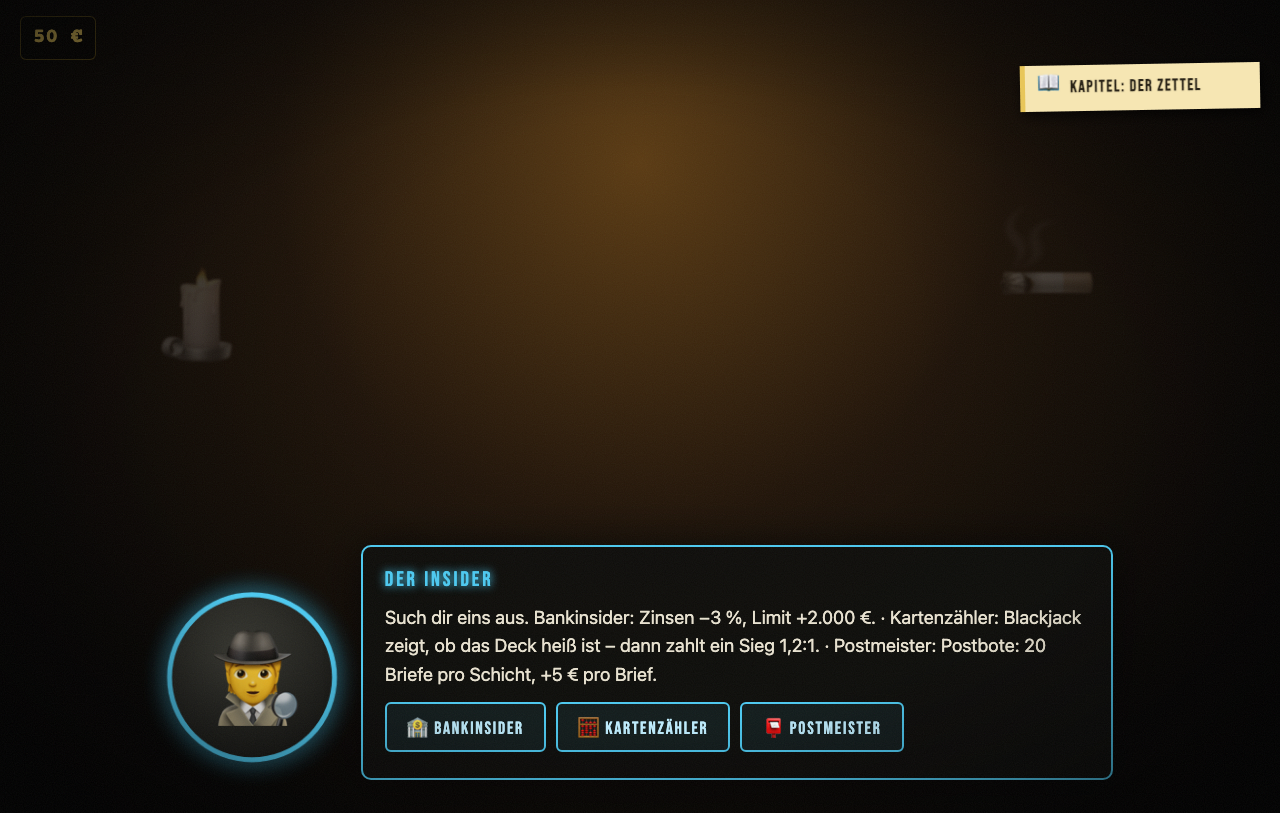
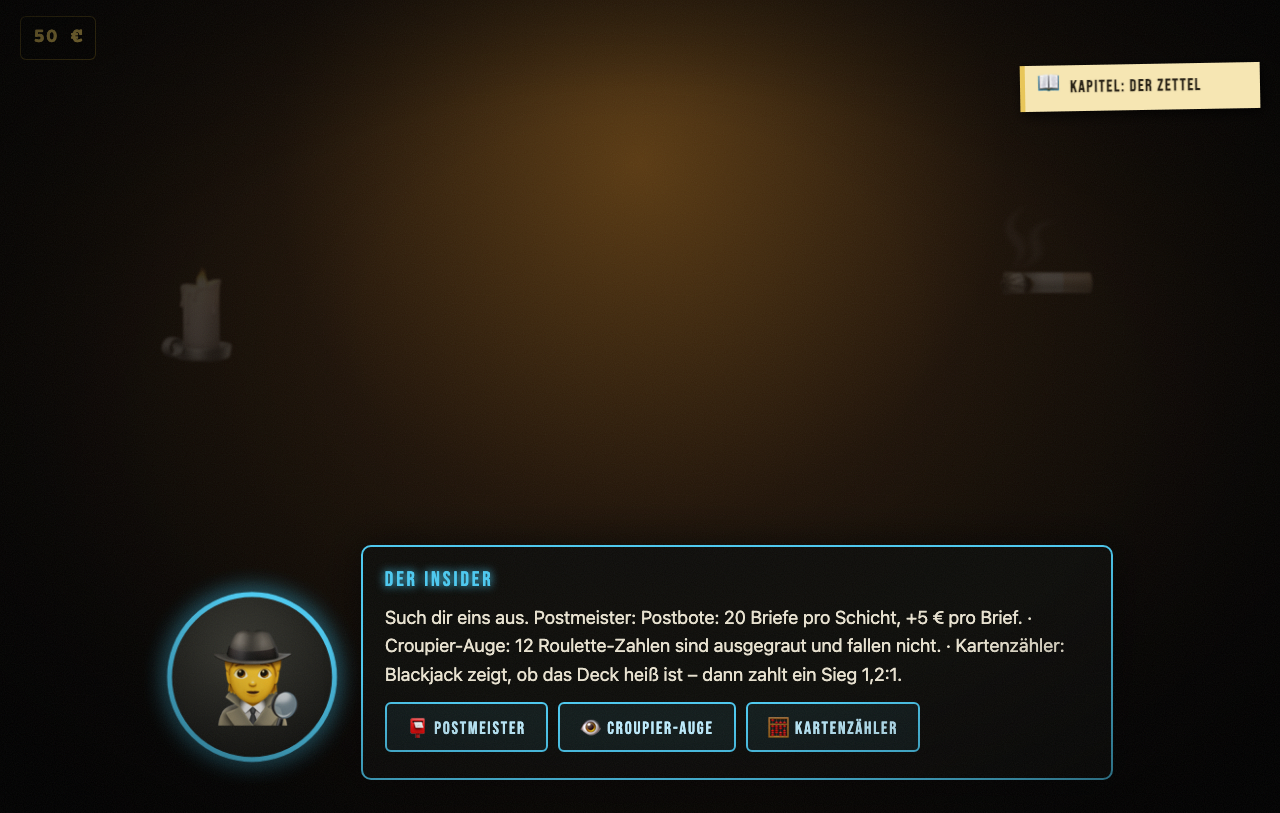
fix(balance): Zockerhände 1,3×, Pferdeflüsterer-Bonus gedeckelt, fairer Zieleinlauf; Insider-Szene vor der Wahl, Roulette-Self-Heal, dynamische Texte

Changed region(s): [[0.2812, 0.738, 0.8438, 0.9225]]

diff --git a/keller37.html b/keller37.html
@@ -426,7 +426,7 @@ body.cs-open .toast { max-width: 300px; }
 }
 /* -- Reduced Motion -- */
 @media (prefers-reduced-motion: reduce) {
-  .neon, .cs-portrait, .balance, .cs-money, .note, .toast, .runner .horse, .spark, .cs-next, .trophy.fresh, div#title, .belt.running, .plate.hit, .plate.broken, .taxi-road.running, .brake-flash.on, .ticket-pop { animation: none !important; }
+  .neon, .cs-portrait, .balance, .cs-money, .note, .toast, .runner .horse, .spark, .cs-next, .trophy.fresh, div#title, .belt.running, .plate.hit, .plate.broken, .taxi-road.running, .brake-flash.on, .ticket-pop, .lv-badge.point { animation: none !important; }
   .strip.spinning { animation: none !important; filter: none; }
   .stage, .stage.leaving, .stage.entering { transition: none; animation: none; }
   #wheelCanvas { transition-duration: .3s; }
@@ -763,7 +763,7 @@ body.mode-story #newgame, body.mode-story #toTitle { display: none; }
         <div class="hand-label">Dealer <span class="hand-val" id="bjDealerVal">–</span> <span class="insider-hint hidden" id="bjDeckHeat"></span></div>
         <div class="cards" id="dealerCards"></div>
       </div>
-      <div class="bj-arc">Black Jack zahlt 1:1 · Dealer zieht bis 17</div>
+      <div class="bj-arc" id="bjArc">Blackjack zahlt 1:1 · Dealer zieht bis 17</div>
       <div class="bj-hand player">
         <div class="cards" id="playerCards"></div>
         <div class="hand-label">Du <span class="hand-val" id="bjPlayerVal">–</span></div>
@@ -999,7 +999,7 @@ const Rules = {
 
   luck(s, mods = Rules.NEUTRAL_MODS) {
     let l = 0;
-    if (s.beerTimer > 0) l += Rules.BEER_LUCK[Math.min(s.beers, 4)] * mods.beerLuckMult;
+    if (s.beerTimer > 0) l += Rules.BEER_LUCK[Math.min(s.beers, Rules.BEER_LUCK.length - 1)] * mods.beerLuckMult;
     if (s.brownieTimer > 0) l += Rules.BROWNIE_LUCK * mods.brownieLuckMult;
     l += Rules.gear(s).luck;
     return l;
@@ -1130,6 +1130,12 @@ const Rules = {
     return step * 1.5 * handicap;
   },
   horseDelta(won, bet, mods = Rules.NEUTRAL_MODS) { return won ? Math.round(bet * mods.horsePayout) : -bet; },
+  /* Zieleinlauf: unter allen Pferden, die das Ziel erreicht haben, gewinnt das mit der größten Position (nicht der niedrigste Index) */
+  raceWinner(pos, goal) {
+    let winner = -1;
+    for (let i = 0; i < pos.length; i++) if (pos[i] >= goal && (winner === -1 || pos[i] > pos[winner])) winner = i;
+    return winner;
+  },
 
   /* ---- Russisches Roulette ---- */
   rrCylinder(rng) {
@@ -1352,12 +1358,12 @@ Object.assign(Rules, {
   INSIDER_CAP: 250,
   HORSE_LAME_STEP: 0.85,
   NEUTRAL_MODS: {
-    beerLuckMult: 1, brownieLuckMult: 1, maxBeers: 3, brownieSpins: 1,
+    beerLuckMult: 1, brownieLuckMult: 1, maxBeers: Rules.MAX_BEERS, brownieSpins: Rules.BROWNIE_SPINS,
     bjNatural: 1, bjPushBonus: 0, bjHotDeck: 1,
     rouletteNumberPayout: 35, rouletteExclude: 0,
     slotPairMult: 1.2, slotHoldEvery: 0,
     horsePayout: 3, horseLoserMarked: false,
-    bankRateAdd: 0, bankLimitAdd: 0, mafiaSpins: 5, mafiaMult: 3, investRateMult: 1,
+    bankRateAdd: 0, bankLimitAdd: 0, mafiaSpins: Rules.MAFIA_SPINS, mafiaMult: 3, investRateMult: 1,
     mugChanceMult: 1, fightAdd: 0, walletMult: 1,
     postTimeAdd: 0, postPayAdd: 0, postLetters: 15,
   },
@@ -1375,8 +1381,8 @@ Object.assign(Rules, {
   SKILLS: [
     { id: 'pokerface', name: 'Pokerface', icon: '🃏', light: 'Blackjack: natürlicher Blackjack zahlt 3:2, Push bringt +10 %', shadow: 'Bier gibt kein Glück', mods: { bjNatural: 1.5, bjPushBonus: 0.1, beerLuckMult: 0 } },
     { id: 'kalterkopf', name: 'Kalter Kopf', icon: '🧊', light: 'Roulette-Zahlen zahlen 36:1', shadow: 'Brownie wirkt nur halb', mods: { rouletteNumberPayout: 36, brownieLuckMult: 0.5 } },
-    { id: 'zockerhaende', name: 'Zockerhände', icon: '🎰', light: 'Slots: Paar zahlt 1,5×', shadow: 'Bank-Zinsen +2 %', mods: { slotPairMult: 1.5, bankRateAdd: 0.02 }, excludes: ['brieftraeger'] },
-    { id: 'pferdefluesterer', name: 'Pferdeflüsterer', icon: '🐎', light: 'Pferde zahlen 3,3:1', shadow: 'Überfälle 50 % häufiger', mods: { horsePayout: 3.3, mugChanceMult: 1.5 } },
+    { id: 'zockerhaende', name: 'Zockerhände', icon: '🎰', light: 'Slots: Paar zahlt 1,3×', shadow: 'Bank-Zinsen +2 %', mods: { slotPairMult: 1.3, bankRateAdd: 0.02 }, excludes: ['brieftraeger'] },
+    { id: 'pferdefluesterer', name: 'Pferdeflüsterer', icon: '🐎', light: 'Pferde zahlen 3,3:1 (bis 250 €)', shadow: 'Überfälle 50 % häufiger', mods: { horsePayout: 3.3, mugChanceMult: 1.5 } },
     { id: 'eisenmagen', name: 'Eisenmagen', icon: '🍺', light: '4 Bier möglich (+25 %), Brownie hält 2 Spins', shadow: 'Postbote: −1 s pro Brief', mods: { maxBeers: 4, brownieSpins: 2, postTimeAdd: -1 } },
     { id: 'verhandler', name: 'Verhandler', icon: '🤝', light: 'Bank-Zinsen −2 %, Vito-Frist 7 Spins', shadow: 'Anlagen zahlen 10 % weniger', mods: { bankRateAdd: -0.02, mafiaSpins: 7, investRateMult: 0.9 } },
     { id: 'strassenkoeter', name: 'Straßenköter', icon: '🐕', light: 'Kampfchance +15 %, Brieftasche ×2', shadow: 'Bank-Limit −1.000 €', mods: { fightAdd: 0.15, walletMult: 2, bankLimitAdd: -1000 } },
@@ -1436,6 +1442,11 @@ Object.assign(Rules, {
     if (typeof value === 'boolean') return value && bet <= Rules.INSIDER_CAP;
     if (!bet || bet <= Rules.INSIDER_CAP) return value;
     return 1 + (value - 1) * Rules.INSIDER_CAP / bet;
+  },
+  /* Wie effectiveInsider, aber für Boni, deren Neutralwert nicht 1 ist (z. B. horsePayout, Neutral 3):
+     wirkt voll bis INSIDER_CAP, darüber verliert nur der Bonus-Anteil über dem Neutralwert anteilig. */
+  effectiveBonus(value, neutral, bet) {
+    return neutral + (value - neutral) * Math.min(1, Rules.INSIDER_CAP / Math.max(bet, 1));
   },
   deckHot(deck) {
     if (!deck.length) return false;
@@ -1821,7 +1832,7 @@ const UI = {
     if (room('bar')) secs.push(sec('Die Bar',
       btn(`🍺 Bier${s.beers > 0 ? ` (${s.beers}/${mods.maxBeers})` : ''}`, '50 €', 'beer', !Rules.canBeer(s, mods).ok),
       btn('🍪 Brownie', s.brownieCost >= 10000 ? '10.000 €' : '1.000 €', 'brownie', !Rules.canBrownie(s).ok),
-      h('p', { class: 'side-hint' }, 'Bier hält 2 Spins, Brownie 1 Spin. Glück wirkt voll bis 100 € Einsatz, nie auf Zahlen.')));
+      h('p', { class: 'side-hint' }, `Bier hält 2 Spins, Brownie ${mods.brownieSpins} Spin${mods.brownieSpins === 1 ? '' : 's'}. Glück wirkt voll bis 100 € Einsatz, nie auf Zahlen.`)));
     const hz = [];
     if (room('doc') || !inStory) hz.push(btn(s.kidneySold ? '🫁 Niere verkauft' : '🫁 Niere verkaufen', s.kidneySold ? '' : '+2.000 €', 'kidney', s.kidneySold));
     if (room('bank') || room('mafia')) hz.push(btn('🏦 Kredite', s.bankDebt + s.mafiaDebt > 0 ? `−${this.fmt(s.bankDebt + s.mafiaDebt)}` : '', 'finance'));
@@ -1886,6 +1897,11 @@ const UI = {
 UI.register('hub', {
   template: 'tpl-hub',
   mount(root) {
+    const mods = Perks.mods();
+    const rTag = qs('[data-screen="roulette"] .chalk-tag', root);
+    if (rTag) rTag.textContent = `Plein ${mods.rouletteNumberPayout}:1`;
+    const hTag = qs('[data-screen="horses"] .chalk-tag', root);
+    if (hTag) hTag.textContent = `Quote ${(1 + mods.horsePayout).toFixed(1)}`;
     qsa('.door', root).forEach((d) => {
       d.addEventListener('click', () => { SFX.play('click'); UI.show(d.dataset.screen); });
       d.addEventListener('mouseenter', () => SFX.play('neonBuzz'));
@@ -2252,9 +2268,10 @@ Actions.brownie = async () => {
     UI.toast({ icon: '🍪', title: c.reason === 'active' ? 'Brownie wirkt bereits' : `Kostet ${UI.fmt(s.brownieCost)}`, text: c.reason === 'active' ? 'Einer reicht. Wirklich.' : 'Zu wenig Geld.', tone: 'loss' });
     return;
   }
+  const mods = Perks.mods();
   const price = s.brownieCost;
   Game.applyDelta(-price, { quiet: true });
-  s.brownieTimer = Perks.mods().brownieSpins;
+  s.brownieTimer = mods.brownieSpins;
   s.brownieCost = Rules.PRICES.brownieNext;
   State.save();
   UI.renderWallet(); UI.renderSide();
@@ -2262,7 +2279,8 @@ Actions.brownie = async () => {
     s.flags.brownie = true; State.save();
     await Cutscene.play('brownie.first', { price: UI.fmt(price) });
   } else {
-    UI.toast({ icon: '🍪', title: 'Brownie', text: '+40 % Glück für 1 Spin. Frag nicht.', tone: 'gold' });
+    const pct = Rules.BROWNIE_LUCK * mods.brownieLuckMult;
+    UI.toast({ icon: '🍪', title: 'Brownie', text: `+${pct} % Glück für ${mods.brownieSpins} Spin${mods.brownieSpins === 1 ? '' : 's'}. Frag nicht.`, tone: 'gold' });
   }
   await Bus.emit('brownie', {});
 };
@@ -2353,13 +2371,14 @@ const Finance = {
   async loanMafia(amt) {
     const s = State.s;
     if (s.mafiaDebt > 0) { UI.toast({ icon: '🕶', title: 'Erst zahlen', text: 'Vito gibt keinen zweiten Kredit.', tone: 'loss' }); return; }
+    const mods = Perks.mods();
     s.mafiaDebt = amt;
-    s.mafiaSpins = Rules.mafiaSpins(Perks.mods());
+    s.mafiaSpins = Rules.mafiaSpins(mods);
     Game.applyDelta(amt, { quiet: true });
     SFX.play('cash');
     this.render();
     if (!s.flags.mafiaLoan) { s.flags.mafiaLoan = true; State.save(); await Cutscene.play('mafia.loan', {}); }
-    else UI.toast({ icon: '🕶', title: `+${UI.fmt(amt)} von Vito`, text: 'Fünf Spins. Er zählt mit.', tone: 'loss' });
+    else UI.toast({ icon: '🕶', title: `+${UI.fmt(amt)} von Vito`, text: `${mods.mafiaSpins} Spin${mods.mafiaSpins === 1 ? '' : 's'}. Er zählt mit.`, tone: 'loss' });
     this.render();
   },
   async repayMafia() {
@@ -2756,7 +2775,6 @@ const Slots = {
   gen: 0,
   lastRes: null,
   lastBet: 0,
-  holdIndex: -1,
   alive(gen) { return !!this.root && this.gen === gen; },
   updateInsiderHint(bet) {
     if (!this.root) return;
@@ -2796,7 +2814,6 @@ const Slots = {
     const gen = this.gen;
     this.spinning = true;
     this.lastRes = null;
-    this.holdIndex = -1;
     try {
       qs('#btnSpin', this.root).disabled = true;
       qsa('.hold-btn', this.root).forEach((b) => b.classList.add('hidden'));
@@ -2897,7 +2914,6 @@ UI.register('slots', {
     Slots.gen++;
     Slots.root = root;
     Slots.lastRes = null;
-    Slots.holdIndex = -1;
     Slots.buildStrips();
     ['🍒', '7⃣', '💎'].forEach((s, i) => Slots.setReel(i + 1, s, false));
     const mods = Perks.mods();
@@ -2907,13 +2923,12 @@ UI.register('slots', {
     qs('#lever', root).addEventListener('click', () => Slots.spin());
     qsa('.hold-btn', root).forEach((b) => b.addEventListener('click', () => {
       const k = parseInt(b.dataset.reel, 10);
-      Slots.holdIndex = k;
       Slots.respin(k);
     }));
     Slots.updateInsiderHint(Game.readBet('slotBet'));
     document.addEventListener('keydown', Slots.onKey);
   },
-  unmount() { Slots.gen++; document.removeEventListener('keydown', Slots.onKey); SFX.stop('reelSpin'); Slots.root = null; Slots.spinning = false; Slots.lastRes = null; Slots.holdIndex = -1; },
+  unmount() { Slots.gen++; document.removeEventListener('keydown', Slots.onKey); SFX.stop('reelSpin'); Slots.root = null; Slots.spinning = false; Slots.lastRes = null; },
 });
 </script>
 
@@ -3063,6 +3078,8 @@ UI.register('blackjack', {
   mount(root) {
     Blackjack.gen++;
     Blackjack.root = root;
+    const mods = Perks.mods();
+    qs('#bjArc', root).textContent = `${mods.bjNatural === 1.5 ? 'Blackjack zahlt 3:2' : 'Blackjack zahlt 1:1'} · Dealer zieht bis 17`;
     Game.bindBet(root, 'bjBet');
     qs('#btnDeal', root).addEventListener('click', () => Blackjack.start());
     qs('#btnHit', root).addEventListener('click', () => Blackjack.hit());
@@ -3309,6 +3326,7 @@ UI.register('roulette', {
   mount(root) {
     Roulette.gen++;
     Roulette.root = root;
+    Perks.refreshExcluded(); // Selbstheilung: ?screen=roulette oder „weiterspielen" landen sonst ohne die 12 Zahlen
     Roulette.buildTable();
     Roulette.drawWheel();
     qs('#wheelCanvas', root).style.transform = `rotate(${Roulette.wheelDeg}deg)`;
@@ -3409,22 +3427,23 @@ const Horses = {
         this.resolveRace = resolve;
         this.loop = setInterval(() => {
           if (!this.alive(gen)) { clearInterval(this.loop); this.resolveRace = null; resolve(null); return; }
-          let win = null;
           Rules.HORSES.forEach((hrs, i) => {
             pos[i] += Rules.horseStep(hrs.id === selected, luck, Math.random, hrs.id === marked ? Rules.HORSE_LAME_STEP : 1);
             runners[i].style.transform = `translateX(${pos[i]}px)`;
             if (tick % 4 === i) this.dust(runners[i], pos[i]);
-            if (pos[i] >= goal && !win) win = hrs;
           });
           tick++;
-          if (win) { clearInterval(this.loop); this.resolveRace = null; resolve(win); }
+          const winIdx = Rules.raceWinner(pos, goal);
+          if (winIdx >= 0) { clearInterval(this.loop); this.resolveRace = null; resolve(Rules.HORSES[winIdx]); }
         }, 30);
       });
       clearInterval(this.commentTimer);
       SFX.stop('gallop');
       if (!winner) { Game.forfeit(); return; } // Rennen abgebrochen (Screen verlassen) – Einsatz verfällt
       const won = winner.id === selected;
-      const delta = Rules.horseDelta(won, bet, mods);
+      /* Der 3,3:1-Bonus ist wie ein Insider-Deckel: er wirkt voll bis INSIDER_CAP, darüber anteilig weniger */
+      const payoutMods = Object.assign({}, mods, { horsePayout: Rules.effectiveBonus(mods.horsePayout, Rules.NEUTRAL_MODS.horsePayout, bet) });
+      const delta = Rules.horseDelta(won, bet, payoutMods);
       if (this.alive(gen)) {
         const flash = qs('#photoFlash', this.root);
         flash.classList.remove('on'); void flash.offsetWidth; flash.classList.add('on');
@@ -4588,10 +4607,14 @@ const Story = {
     const panels = (typeof endDef === 'function' ? endDef(this.ctx({ stats })) : (endDef || [])).map((p) => Object.assign({}, p));
     const last = panels[panels.length - 1];
     last.fx = 'stats';
-    last.choices = [{ label: 'Nächste Story', value: 'next', cls: 'red' }, { label: 'Zum Titel', value: 'title', cls: 'ghost' }];
     Cutscene.define('story.ending.tmp', panels);
-    const choice = await Cutscene.play('story.ending.tmp', this.ctx({ stats }));
+    await Cutscene.play('story.ending.tmp', this.ctx({ stats }));
     if (typeof Perks !== 'undefined') await Perks.offerInsider(this.story.id);
+    Cutscene.define('story.ending.choice', [
+      { bg: last.bg || 'hafen', who: 'du', text: 'Und jetzt?',
+        choices: [{ label: 'Nächste Story', value: 'next', cls: 'red' }, { label: 'Zum Titel', value: 'title', cls: 'ghost' }] },
+    ]);
+    const choice = await Cutscene.play('story.ending.choice', this.ctx({ stats }));
     await Bus.emit('story:ended', { id: this.story.id, ending: end.id });
     if (choice === 'next') return this.enter('newstory');
     const c = await Title.show();
@@ -5551,6 +5574,11 @@ T.test('horseStep: (rng*3+1)*1.5, Glück nur für gewähltes Pferd', () => {
   T.eq(Rules.horseStep(false, 0, seq(1)), 6);
 });
 T.test('horseDelta', () => { T.eq(Rules.horseDelta(true, 10), 30); T.eq(Rules.horseDelta(false, 10), -10); });
+T.test('raceWinner: größte Position gewinnt, nicht der niedrigste Index', () => {
+  T.eq(Rules.raceWinner([10, 12, 11, 9], 10), 1);
+  T.eq(Rules.raceWinner([5, 5, 5, 5], 10), -1);
+  T.eq(Rules.raceWinner([10, 10, 10, 10], 10), 0);
+});
 
 /* ---- Rules: Russisches Roulette ---- */
 T.test('rrCylinder: 6 Kammern, eine Kugel', () => {
@@ -6242,7 +6270,7 @@ T.test('mods: neutral ohne Skills/Insider', () => {
 T.test('mods: Skills und Insider stapeln', () => {
   const m = Rules.mods(base({ skills: ['pokerface', 'zockerhaende', 'verhandler'] }), { insider: ['bankinsider', 'vitosneffe'] });
   T.eq(m.bjNatural, 1.5); T.eq(m.bjPushBonus, 0.1); T.eq(m.beerLuckMult, 0);
-  T.eq(m.slotPairMult, 1.5);
+  T.eq(m.slotPairMult, 1.3);
   near(m.bankRateAdd, 0.02 - 0.02 - 0.03, 'Zinsen addieren');
   T.eq(m.mafiaSpins, 8, 'Maximum von 7 und 8'); T.eq(m.mafiaMult, 2);
   T.eq(m.bankLimitAdd, 2000); near(m.investRateMult, 0.9); near(m.mugChanceMult, 0.5);
@@ -6276,6 +6304,11 @@ T.test('effectiveInsider: Deckel 250', () => {
   near(Rules.effectiveInsider(1.2, 500), 1.1, 'Bonusanteil halbiert');
   T.eq(Rules.effectiveInsider(true, 250), true); T.eq(Rules.effectiveInsider(true, 251), false);
   T.eq(Rules.effectiveInsider(false, 10), false);
+});
+T.test('effectiveBonus: Deckel 250 wie effectiveInsider, aber mit Neutralwert', () => {
+  T.eq(Rules.effectiveBonus(3.3, 3, 250), 3.3);
+  near(Rules.effectiveBonus(3.3, 3, 500), 3.15);
+  T.eq(Rules.horseDelta(true, 500, M({ horsePayout: Rules.effectiveBonus(3.3, 3, 500) })), 1575, 'Pferdeflüsterer über 250 € gedeckelt');
 });
 T.test('deckHot / pickExcluded / pickLoser', () => {
   const hot = [...Array(20)].map(() => ({ val: '10' })).concat([{ val: '3' }]);
@@ -6328,6 +6361,18 @@ T.test('Slots/Pferde mit mods', () => {
   T.eq(Rules.slotMultiplier('🍒', '🍒', '🍒', M({ slotPairMult: 0 })), 5, 'Drilling unberührt');
   T.eq(Rules.horseDelta(true, 100), 300); T.eq(Rules.horseDelta(true, 100, M({ horsePayout: 3.3 })), 330); T.eq(Rules.horseDelta(false, 100, M({ horsePayout: 3.3 })), -100);
   near(Rules.horseStep(false, 0, seq(0), Rules.HORSE_LAME_STEP), 1.5 * Rules.HORSE_LAME_STEP, 'Handicap');
+});
+T.test('Slots: Erwartungswert bleibt unter 1 (Zockerhände 1,3×, neutral)', () => {
+  const evFor = (mods) => {
+    let sum = 0, n = 0;
+    for (const a of Rules.SYMBOLS) for (const b of Rules.SYMBOLS) for (const c of Rules.SYMBOLS) { sum += Rules.slotMultiplier(a, b, c, mods); n++; }
+    return { sum, n, avg: sum / n };
+  };
+  const zocker = evFor(M({ slotPairMult: 1.3 }));
+  T.eq(zocker.n, 216, 'alle Walzen-Kombinationen');
+  T.ok(zocker.avg < 1, `Zockerhände 1,3× bleibt -EV (avg=${zocker.avg})`);
+  const neutral = evFor(Rules.NEUTRAL_MODS);
+  T.ok(neutral.avg < 1, `neutral bleibt -EV (avg=${neutral.avg})`);
 });
 T.test('Blackjack mit mods: Natural 3:2, Push +10 %, heißes Deck 1,2:1', () => {
   T.eq(Rules.bjDelta('win', 100), 100);

diff --git a/tests/playtest-story.py b/tests/playtest-story.py
@@ -1083,6 +1083,10 @@ async def scenario_free_sandbox_unchanged(cdp):
     ref_dir = os.path.join(ROOT, "docs", "superpowers", "screenshots")
     if not HAVE_PIL:
         record("freie sandbox: Pillow verfuegbar", False, "import PIL schlug fehl -- Vergleich faellt auf Dateigroesse zurueck")
+    # Insider-Upgrades sind Meta-weit und ueberleben "?fresh" (das loescht nur den Spielstand) --
+    # scenario_endings() kann beim Durchklicken einer Story-Ende-Cutscene zufaellig eins mitnehmen.
+    # Fuer den reinen UI-Pixel-Vergleich hier zuruecksetzen, sonst ist der Vergleich nicht deterministisch.
+    await cdp.eval("localStorage.removeItem('keller37.meta'); 0", await_promise=False)
     for screen in ["slots", "roulette", "blackjack", "hub"]:
         await cdp.send("Emulation.clearDeviceMetricsOverride")
         await cdp.navigate(URL_BASE + "?fresh&screen=%s" % screen)
@@ -1223,28 +1227,26 @@ async def _scenario_perks_body(cdp):
     bal = await cdp.eval("State.s.balance", await_promise=False)
     skills = await cdp.eval("JSON.stringify(State.s.skills)", await_promise=False)
     record("perks: Umskillen kostet 2000 und leert die Skills", bal == 3000 and skills == "[]", "bal=%s skills=%s" % (bal, skills))
-    # Insider-Wahl am Story-Ende
+    # Insider-Wahl am Story-Ende: Statistik-Panel -> Insider-Angebot -> erst danach "Nächste Story / Zum Titel"
     await cdp.navigate(URL_BASE + "?fresh&story=schuld&ending=ehrlich")
     await asyncio.sleep(1.5)
     await cdp.inject_helpers()
     await cdp.eval("State.meta.insider = []; State.meta.insiderClaimed = {}; State.saveMeta(); 0", await_promise=False)
+    n_choices = 0
     for _ in range(40):
-        labels = await cdp.eval("[...document.querySelectorAll('.cs-choices button')].map(b=>b.textContent).join('|')", await_promise=False)
-        if labels and ("Nächste Story" in labels):
+        n_choices = await cdp.eval("document.querySelectorAll('.cs-choices button').length", await_promise=False)
+        if n_choices == 3:
             break
         await cdp.eval("__pt.advance(null)", await_promise=False)
         await asyncio.sleep(0.15)
-    await cdp.eval("__pt.advance('Nächste Story')", await_promise=False)
-    await asyncio.sleep(0.6)
-    await cdp.advance_cutscene(max_steps=3)
-    n_choices = await cdp.eval("document.querySelectorAll('.cs-choices button').length", await_promise=False)
-    record("insider: Story-Ende bietet 3 Upgrades", n_choices == 3, "choices=%s" % n_choices)
+    record("insider: Story-Ende bietet 3 Upgrades (vor der Nächste-Story-Wahl)", n_choices == 3, "choices=%s" % n_choices)
     await cdp.screenshot("insider-offer.png")
     await cdp.eval("__pt.advance(null)", await_promise=False)
     await asyncio.sleep(0.5)
     ins = await cdp.eval("JSON.stringify(State.meta.insider)", await_promise=False)
     claimed = await cdp.eval("JSON.stringify(State.meta.insiderClaimed)", await_promise=False)
     record("insider: Wahl in Meta gespeichert, Story-Teil abgehakt", ins is not None and ins != "[]" and claimed is not None and "schuld" in claimed, "insider=%s claimed=%s" % (ins, claimed))
+    await cdp.advance_cutscene(max_steps=3, label_hint="Zum Titel")
     # Croupier-Auge + Stallbursche im freien Spiel
     await cdp.navigate(URL_BASE + "?fresh&screen=roulette")
     await asyncio.sleep(1.0)

diff --git a/docs/superpowers/specs/2026-09-17-insider-skills-design.md b/docs/superpowers/specs/2026-09-17-insider-skills-design.md
@@ -54,14 +54,16 @@ Jeder Eintrag: `{ id, name, icon, light, shadow, mods }`. `mods` sind Schlüssel
 |---|---|---|---|---|
 | `pokerface` | Pokerface | Blackjack: natürlicher Blackjack zahlt 3:2, Push bringt +10 % | Bier gibt kein Glück | `bjNatural: 1.5, bjPushBonus: 0.1, beerLuckMult: 0` |
 | `kalterkopf` | Kalter Kopf | Roulette-Zahlen zahlen 36:1 | Brownie wirkt nur halb | `rouletteNumberPayout: 36, brownieLuckMult: 0.5` |
-| `zockerhaende` | Zockerhände | Slots: Paar zahlt 1,5× | Bank-Zinsen +2 % | `slotPairMult: 1.5, bankRateAdd: 0.02` |
-| `pferdefluesterer` | Pferdeflüsterer | Pferde zahlen 3,3:1 | Überfälle 50 % häufiger | `horsePayout: 3.3, mugChanceMult: 1.5` |
+| `zockerhaende` | Zockerhände | Slots: Paar zahlt 1,3× | Bank-Zinsen +2 % | `slotPairMult: 1.3, bankRateAdd: 0.02` |
+| `pferdefluesterer` | Pferdeflüsterer | Pferde zahlen 3,3:1 (bis 250 €) | Überfälle 50 % häufiger | `horsePayout: 3.3, mugChanceMult: 1.5` |
 | `eisenmagen` | Eisenmagen | 4 Bier möglich (+25 %), Brownie hält 2 Spins | Postbote: −1 s pro Brief | `maxBeers: 4, brownieSpins: 2, postTimeAdd: -1` |
 | `verhandler` | Verhandler | Bank-Zinsen −2 %, Vito-Frist 7 Spins | Anlagen zahlen 10 % weniger | `bankRateAdd: -0.02, mafiaSpins: 7, investRateMult: 0.9` |
 | `strassenkoeter` | Straßenköter | Kampfchance +15 %, Brieftasche ×2 | Bank-Limit −1.000 € | `fightAdd: 0.15, walletMult: 2, bankLimitAdd: -1000` |
 | `brieftraeger` | Briefträgerherz | Postbote +1 s und +5 € pro Brief | Slots: Paare zahlen nichts | `postTimeAdd: 1, postPayAdd: 5, slotPairMult: 0` |
 
 Konflikte: `zockerhaende` und `brieftraeger` schließen sich aus (`excludes`), `Rules.canPickSkill` meldet `reason: 'conflict'`. Mehrere `bankRateAdd`/`postTimeAdd` addieren sich; Multiplikatoren multiplizieren sich.
+
+Balance: `slotPairMult: 1.3` bleibt bei jedem Einsatz unter 1,0 Erwartungswert (Kombinatorik über alle 216 Walzen-Ausgänge: `(95 + 90 × 1,3) / 216 ≈ 0,98`); mit dem alten Wert 1,5 wäre Slots bei jedem Einsatz +EV gewesen. Der Pferdeflüsterer-Bonus (`horsePayout: 3.3`) ist wie ein Insider-Deckel gebaut (`Rules.effectiveBonus(value, neutral, bet)`, analog zu `effectiveInsider`, aber mit Neutralwert ≠ 1): er wirkt voll bis `INSIDER_CAP` = 250 € Einsatz, darüber verliert nur der Bonus-Anteil über dem Neutralwert `horsePayout: 3` anteilig (Bonus wirkt voll bis 250 € Einsatz) – ohne Deckel wäre 3,3:1 bei jedem Einsatz +EV gewesen.
 
 ### 2.5 Insider-Katalog `Rules.INSIDER`
 

diff --git a/README.md b/README.md
@@ -52,15 +52,17 @@ acht möglichen. Jeder Skill hat eine Lichtseite und einen Haken an anderer Stel
 |---|---|---|
 | 🃏 Pokerface | Blackjack: natürlicher Blackjack zahlt 3:2, Push bringt +10 % | Bier gibt kein Glück |
 | 🧊 Kalter Kopf | Roulette-Zahlen zahlen 36:1 | Brownie wirkt nur halb |
-| 🎰 Zockerhände | Slots: Paar zahlt 1,5× | Bank-Zinsen +2 % |
-| 🐎 Pferdeflüsterer | Pferde zahlen 3,3:1 | Überfälle 50 % häufiger |
+| 🎰 Zockerhände | Slots: Paar zahlt 1,3× | Bank-Zinsen +2 % |
+| 🐎 Pferdeflüsterer | Pferde zahlen 3,3:1 (bis 250 €) | Überfälle 50 % häufiger |
 | 🍺 Eisenmagen | 4 Bier möglich (+25 %), Brownie hält 2 Spins | Postbote: −1 s pro Brief |
 | 🤝 Verhandler | Bank-Zinsen −2 %, Vito-Frist 7 Spins | Anlagen zahlen 10 % weniger |
 | 🐕 Straßenköter | Kampfchance +15 %, Brieftasche ×2 | Bank-Limit −1.000 € |
 | 📬 Briefträgerherz | Postbote +1 s und +5 € pro Brief | Slots: Paare zahlen nichts |
 
 Zockerhände und Briefträgerherz schließen sich aus. „Umskillen" im Skill-Screen (2.000 €) macht
-alle drei Wahlen rückgängig, die Punkte bleiben frei und lassen sich neu vergeben.
+alle drei Wahlen rückgängig, die Punkte bleiben frei und lassen sich neu vergeben. Der
+Pferdeflüsterer-Bonus ist wie beim Glück gedeckelt (Bonus wirkt voll bis 250 € Einsatz), darüber
+verliert nur der Anteil über 3:1 anteilig – nie eine Geldmaschine.
 
 Insider-Wissen kommt dauerhaft und Meta-weit hinzu – pro abgeschlossenem Story-Teil einmalig
 eine Wahl aus drei zufälligen Upgrades (Pferde-Tipp, Roulette-Ausschluss, Kartenzählen, Slots-
